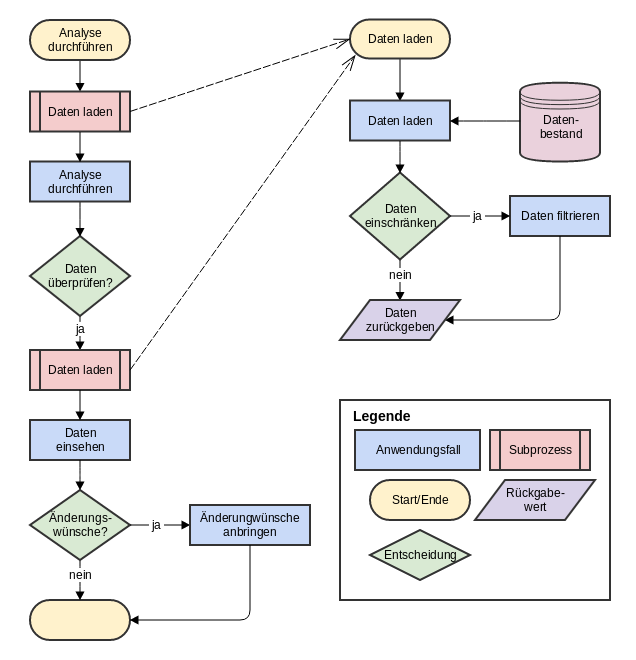
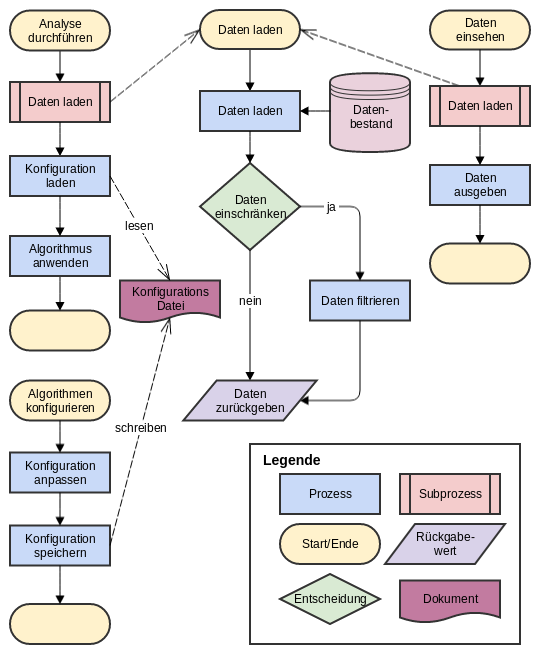
todos

diff --git a/doc/content/4-Konzept.tex b/doc/content/4-Konzept.tex
@@ -1,6 +1,6 @@
 \chapter{Konzept}
 \label{sec:konzept}
-Im Konzept wird beschrieben, wie die Problemstellung, welch im \cref{sec:einleitung:ziel} aufgezeigt wurde, gelöst werden kann. Dazu werden zuerst die einzusetzenden Algorithmen evaluiert (siehe \cref{sec:konzept:disziplin-und-algorithmen} \nameref{sec:konzept:disziplin-und-algorithmen}) und aufgezeigt, wie diese angewendet werden (siehe \cref{sec:konzept:anwendungderalgorithmen} \nameref{sec:konzept:anwendungderalgorithmen}). Anschliessend werden die Daten beschrieben und deren Vorbereitung erläutert (siehe \cref{sec:recherche:datenbestand} \nameref{sec:recherche:datenbestand}). \todo{ergänzen 4.4-4.6}
+Im Konzept wird beschrieben, wie die Problemstellung, welch im \cref{sec:einleitung:ziel} aufgezeigt wurde, gelöst werden kann. Dazu werden die einzusetzenden Algorithmen evaluiert und aufgezeigt, wie diese angewendet werden. Anschliessend folgt eine Beschreibung der Daten, welche von den Algorithmen verwenden, sowie deren fünfstufige  Vorbereitung. Im Abschnitt Ablauf werden die zwei Schritte gezeigt, welche bei jeder Analyse durchgeführt werden. Zum Schluss werden noch Testfälle definiert, welche die korrekte Funktionsweise der Analyse sicherstellen.
 
 \section{Selektion der Disziplinen und Algorithmenen}
 \label{sec:konzept:disziplin-und-algorithmen}
@@ -149,7 +149,7 @@ Die Daten liegen im Windows Excel Format vor. Es sind total 133'001 Datensätze 
 
 \subsection{Datenvorbereitung}
 \label{sec:recherche:datenvorbereitung}
-Die Datenvorbereitung wandelt die Daten so um dass sie für das Data Mining möglichst effizient verwendet werden können. Dies umfasst die Bereinigung, Transformation sowie Reduktion von Informationen\footcite{feature_selection_2017-01-04}. Bei ersteren werden Messfehler im Datenbestand behoben, fehlende Felder ergänzt oder Duplikate entfernt. Die Transformation wandelt Werte um damit sie für die Berechnung besser geeignet sind. Zum Beispiel können Wertebereiche in Intervalle aufgeteilt werden. Bei letzteren werden Instanzen der Datengrundlage entfernt, wodurch die Berechnungszeit verkürzt wird, oder Attribute von allen Instanzen entfernt, da deren Entropie zu gering ist. Zum Beispiel ist es unspannend, wenn ein Attribut bei (fast) allen Instanzen gleich ist. 
+Die Datenvorbereitung wandelt die Daten so um dass sie für das Data Mining möglichst effizient verwendet werden können. Dies umfasst die Bereinigung, Transformation sowie Reduktion von Informationen\footcite{feature_selection_2017-01-04}. Bei ersteren werden Messfehler im Datenbestand behoben, fehlende Felder ergänzt oder Duplikate entfernt. Die Transformation wandelt Werte um damit sie für die Berechnung besser geeignet sind. Bei letzteren werden Instanzen der Datengrundlage entfernt, wodurch die Berechnungszeit verkürzt wird, oder Attribute von allen Instanzen entfernt, da deren Entropie zu gering ist. Zum Beispiel ist es unspannend, wenn ein Attribut bei (fast) allen Instanzen gleich ist\footcite{data_mining_concepts_and_techniques}. 
 
 \subsubsection{Boolsche Werte}  
 \label{sec:recherche:datenvorbereitung:boolschewerte}
@@ -160,7 +160,7 @@ In der Datenbasis sind boolsche Werte entweder leer oder "`X"'. Dies wird umgewa
 Die Datenbasis beinhaltet bestätigte und stornierte Buchungen. Der Status wird in der Zeile C BOOKSTA gespeichert und besitzt den Wert "`OK"' wenn der Kunde die Rechnung bezahlt sowie die Reise angetreten ist, sonst beinhaltet das Feld die Buchstaben "`XX"'. Gründe für eine Stornierung gibt es viele. Zum Beispiel wenn er falsch gebucht hat, die Rechnung nicht bezahlte, die Reise nicht angetreten werden konnte, etc. Wenn es eine ernsthafte Buchung war könnte man auch annullierte Instanzen verwenden in der Analyse. Wenn jedoch etwas falsch gebucht wurde könnten diese Buchungen die Analyse verfälschen. Da kein Grund für die Annullierung angegeben ist in der Datenbasis werden alle Instanzen mit "`XX"' entfernt. 
 
 \subsubsection{Datennormierung von numerischen Werten} 
-\label{sec:recherche:datenvorbereitung:normierung} \cref{sec:konzept:anwendungderalgorithmen:distanzmessung} vorgestellte Distanzmessung arbeitet mit der euklidischen Distanz für numerische Werte. Wenn ein Attribut $A_1$ einer Buchung den Wert 1'000 hat und das einer anderen Buchung 300, so ergibt sich eine Distanz von 700. Betrachtet man ein anderes Attribut $A_2$, welches den Wert 1 hat beziehungsweise 0.3, so ist die Distanz 0.7. Dadurch fällt $A_2$ in der gesamten Distanz zwischen den beiden Buchungen überhaupt nicht in Gewicht, da es um einen Faktor 1'000 kleiner ist. Deshalb werden numerische Attribute genormt, damit alle in den gleichen Wertebereich liegen.
+Die im \label{sec:recherche:datenvorbereitung:normierung} \cref{sec:konzept:anwendungderalgorithmen:distanzmessung} vorgestellte Distanzmessung arbeitet mit der euklidischen Distanz für numerische Werte. Wenn ein Attribut $A_1$ einer Buchung den Wert 1'000 hat und das einer anderen Buchung 300, so ergibt sich eine Distanz von 700. Betrachtet man ein anderes Attribut $A_2$, welches den Wert 1 hat beziehungsweise 0.3, so ist die Distanz 0.7. Dadurch fällt $A_2$ in der gesamten Distanz zwischen den beiden Buchungen massiv weniger ins Gewicht, da es um einen Faktor 1'000 kleiner ist. Deshalb werden numerische Attribute genormt, damit alle in den gleichen Wertebereich liegen.
 
 In dieser Arbeit werden vier numerische Attribute verwendet.
 \begin{table}[H] 
@@ -181,16 +181,24 @@ In dieser Arbeit werden vier numerische Attribute verwendet.
 
 Normiert werden die Spalten AC (Sterne Bewertung des Objektes), AD (Anzahl Zimmer) und AE (Anzahl Schlafzimmer). Diese werden in ein Intervall zwischen 0 und 1 überführt.
 
-Der Preis in der Spalte E giltet für die gesamte Buchung. Dieser wird in einen Wochenpreis und pro Person normiert. Wenn eine Buchung CHF 2'000 kostet für 10 Tage für 2 Personen, so ergibt das "`CHF 1'400 / 10 Tage * 7 Tage / 2 Personen = CHF 490"'. Es wird keine Normierung auf einen Wert von 0-1 durchgeführt, da dieser Wert noch diskretiert wird (siehe nächsten Paragraphen).
+Der Preis in der Spalte E giltet für die gesamte Buchung. Dieser wird in einen Wochenpreis und pro Person normiert. Wenn eine Buchung CHF 2'000 kostet für 10 Tage für 2 Personen, so ergibt das "`CHF 1'400 / 10 Tage * 7 Tage / 2 Personen = CHF 490"'. Es wird keine Normierung auf einen Wert von 0-1 durchgeführt, da dieser Wert noch diskretiert wird (siehe \cref{sec:recherche:datenvorbereitung:diskretierung} \nameref{sec:recherche:datenvorbereitung:diskretierung}).
 
 \subsubsection{Datenerweiterung} 
-Die Daten sollen durch weitere Felder ergänzt werden. Denn eine Fragestellung von Interhome ist es, eine Häufigkeitsanalyse in einem Gebiet durchzuführen\todo{cref}. Da im Datenstamm jedoch nur das Land des Objektes vorhanden ist, muss die Region und die Ortschaft erweitert werden. 
+Die Daten müssen für die Beantwortung der Hypothesen (siehe \cref{sec:einleitung:ziel:hypothesen} \nameref{sec:einleitung:ziel:hypothesen}) durch weitere Felder ergänzt werden. 
+
+Folgende Felder werden benötigt, sind jedoch in der Datenbasis nicht vorhanden:
+\begin{itemize}
+\item Region und Ort des Objektes. In der Datenbasis ist nur das Land vorhanden.
+\item Monat und Wochentag in welchem das Objekt gebucht wurde. 
+\end{itemize}
 
 Zusätzlich müssen für die Wetterdaten die genaue Geolocation des Benutzers vorhanden sein. Im Datenstamm ist die Adresse des Kunden gespeichert, mit welcher die Geolocation ermittelt werden kann.
 
 \subsubsection{Diskretierung von Distanzen und des Wochenpreises} 
 \label{sec:recherche:datenvorbereitung:diskretierung}
-Die Zeilen AK (Distanz zum Wasser), AL (Distanz zum Skigebiet), AM (Distanz zum öffentlichen Verkehr), DZ (Distanz zum Zentrum), EA (Distanz bis zum Meer) und EB (Distanz bis zum See) sind numerische Werte, welche die Anzahl an Metern zu einem Punkt angeben. Die Werte dieser Spalten wird in folgenden Wert diskretiert. 
+Die Apriori-Analyse zählt nur exakte Übereinstimmungen. Deshalb werden kontinuierliche Werte in vorgegebene diskrete Teilmengen unterteilt damit sie vom Apriori Algorithmus verwendet werden können. Die Grenzwerte der diskretierungen wurden mit Interhome abgesprochen, da diese bereits intern entsprechend verwendet werden.
+
+Die Zeilen AK (Distanz zum Wasser), AL (Distanz zum Skigebiet), AM (Distanz zum öffentlichen Verkehr), DZ (Distanz zum Zentrum), EA (Distanz bis zum Meer) und EB (Distanz bis zum See) sind numerische Werte, welche die Anzahl an Metern zu einem Punkt angeben. Die Werte dieser Spalten wird in folgende Bereite diskretiert: 
 
 \begin{table}[h] 
 	\caption{Diskretisierungswerte für Distanzattribute}
@@ -225,8 +233,6 @@ Ebenfalls wird der Wochenpreise in nachfolgende Intervalle unterteilt.
 Bei den Distanzen sind kleine Werte spannend, welche angeben dass ein Objekt nahe am Skilift oder bei der Busstation liegt. Deshalb wurde definiert dass die Werte von 0 bis 499 Metern als nahe (engl. Close) markiert werden. Darüber liegende Werte werden ignoriert.
 
 Bei den Preisen hingegen ist es interessant, wenn ein Objekt besonders günstig oder teuer ist. Deshalb wurden zwei Intervalle definiert. Nämlich 0 bis 200 und 401 aufwärts. Alles dazwischen wird nicht weiter behandelt.
-
-Diese Datenreduktion wird vorgenommen, da dadurch die Informationen auch von der Apriori-Analyse verwendet werden kann. Dieser zählt nur exakte Übereinstimmungen. Die Grenzwerte der diskretierungen wurden mit Interhome abgesprochen, da diese bereits intern entsprechend verwendet werden.
 
 %\begin{itemize}
 %%\item Das Datenformat wurde für die einfachere programmatische Handhabung von Windows Excel in das \gls{csv}-Format transferiert.
@@ -277,7 +283,7 @@ In den Tabellen \ref{fig:recherche:datenvorbereitung:3} und \ref{fig:recherche:d
 	\end{tabular}
 \end{table}
 
-Die Diskretisierung wird durchgeführt, damit nach dem Clustering die Häufigkeit der kategorischen Werte mit dem Apriori Algorithmus erhoben werden kann. Dadurch wird das Clustering nachvollziehbar\todo{cref}\footcite{data_mining_concepts_and_techniques}. 
+Die Diskretisierung wird durchgeführt, damit nach dem Clustering die Häufigkeit der kategorischen Werte mit dem Apriori Algorithmus erhoben werden kann. Dadurch wird das Clustering (siehe \cref{sec:konzept:ablauf:analyse} \nameref{sec:konzept:ablauf:analyse}). 
 
 Es gibt verschiedene Diskretisierungsmethoden. Diese Teilen die Werte in gleiche Intervalle auf oder stellen sicher dass in jeder Kategorie die selbe Anzahl an Instanzen vorhanden sind.
 Die verwendeten Werte aus \cref{fig:recherche:datenvorbereitung:1} und \cref{fig:recherche:datenvorbereitung:2} wurde mit Interhome abgesprochen. 
@@ -322,6 +328,9 @@ In Absprache mit Interhome wurde entschieden, dass in einem ersten Schritt jene 
 		\bfseries Zelle & \bfseries Name & \bfseries Datentyp & \bfseries Beschreibung \\ \hline 
 		E & PRICES & integer & Preis \\ \hline 
 		I & NREF & categorical & Nummer des gebuchten Objektes \\ \hline 
+		L & REPAX & integer & Anzahl Passagiere \\ \hline 
+		S & CUCNTRY & categorical & Land des Kunden \\ \hline 
+		U & CUORT & string & Ortschaft des Kunden \\ \hline 
 		AC & QUAL & integer & Sterne Bewertung des Objektes \\ \hline 
 		AD & ROOMS & integer & Anzahl Zimmer \\ \hline 
 		AE & BEDROOMS & integer & Anzahl Schlafzimmer \\ \hline 
@@ -418,7 +427,7 @@ Möchte der Benutzer wissen, welche Attribute in der (vorselektierten) Datenmeng
 	\label{fig:konzept:ablauf:analyse:1}
 \end{figure}
 
-Liefert der Apriori keine zufriedenstellenden Antworten oder ist von vornherein zu erwarten, dass es verschiedene Gruppen von Buchungen gibt, so kann zuerst die Cluster Analysis durchgeführt werden. Die Instanzen werden damit in Clusters/Klassen aufgeteilt, der Benutzer würde jedoch nicht sehen weshalb. Deshalb wird auf jeder Klasse der Apriori-Algorithmus durchgeführt. Da die Instnzen in einer Klasse untereinander möglichst Homogen sein sollen und möglichst unterschiedlich zu anderen Clusters, ist anzunehmen, dass die häufigsten Attribute, welche durch den Apriori-Algorithmus gefunden werden, aussagekräftig die Klassen beschreiben.
+Liefert der Apriori keine zufriedenstellenden Antworten oder ist von vornherein zu erwarten, dass es verschiedene Gruppen von Buchungen gibt, so kann zuerst die Cluster Analysis durchgeführt werden. Die Instanzen werden damit in Clusters/Gruppen aufgeteilt, der Benutzer würde jedoch nicht sehen weshalb. Deshalb wird auf jedem Cluster der Apriori-Algorithmus durchgeführt. Da die Instanzen in einer Gruppe untereinander möglichst Homogen sein sollen und möglichst unterschiedlich zu anderen Clusters, ist anzunehmen, dass die häufigsten Attribute, welche durch den Apriori-Algorithmus gefunden werden, aussagekräftig die Klassen beschreiben.
 
 \section{Mockups des Programmes}
 \label{sec:konzept:mockups}

diff --git a/doc/content/5-Umsetzung.tex b/doc/content/5-Umsetzung.tex
@@ -293,12 +293,12 @@ Das Ziel war es, gemäss dem \gls{srp} eine starke Kohäsion und eine lose Koppl
 
 \begin{itemize}
 	\item Controllers: Nehmen die Anfragen eines Benutzers entgegen und verarbeiten diese. Dazu verwenden sie Klassen aus dem Business welches ein Datenmodel zurückliefert. Dieses Model werden anschliessend vom Controller an die View übergeben welche die Ausgabe für den Browser generiert (siehe \cref{sec:proofofconcept:architektur:mvc} \nameref{sec:proofofconcept:architektur:mvc}).
-	\item Services: Führen die verschiedenen Analysen durch. Sie sind so ausgelegt dass sie als eigenständiger Prozess im Hintergrund ausgeführt werden können.\todo{cref}
-	\item Business: Beinhaltet die Geschäftlogik, was in dieser Arbeit die Algorithmen umfasst, sowie alles was mit den Models interagiert. Demnach die Algorithmen selber (im Unterpacket "`Algorithms"'), die Distanzmessung (Klasse DistanceMeasurement), den Datenzugriff (Klasse BookingDataIterator), etc.\todo{cref}
-	\item Models: Klassen für die Datenhaltung welche möglichst wenig Logik beinhalten.\todo{cref}
+	\item Services: Führen die verschiedenen Analysen durch. Sie sind so ausgelegt dass sie als eigenständiger Prozess im Hintergrund ausgeführt werden können (siehe \cref{sec:proofofconcept:architektur:services} \nameref{sec:proofofconcept:architektur:services}).
+	\item Business: Beinhaltet die Geschäftlogik, was alles umfasst was mit den Models interagiert. Demnach die Algorithmen selber (im Unterpacket "`Algorithms"'), die Distanzmessung (Klasse DistanceMeasurement), den Datenzugriff (Klasse BookingDataIterator), etc. (siehe \cref{sec:proofofconcept:klassenstruktur:algorithmen} \nameref{sec:proofofconcept:klassenstruktur:algorithmen})
+	\item Models: Klassen für die Datenhaltung welche möglichst wenig Logik beinhalten (siehe \cref{sec:proofofconcept:klassenstruktur:models} \nameref{sec:proofofconcept:klassenstruktur:models}).
 	\item Utilities: Beinhalten Logik die nichts mit den Algorithmen zu tun hat und keine Models verwendet. Diese Klassen können für sich selber in einem anderen Projekt wiederverwendet werden.
 	\item Interfaces: Alle verwendeten Interfaces.
-	\item Tests: UnitTests\todo{cref}
+	\item Tests: UnitTests (siehe \cref{sec:proofofconcept:unittests} \nameref{sec:proofofconcept:unittests}).
 \end{itemize}
 
 \subsection{Klassenstruktur}
@@ -390,11 +390,11 @@ Die erste Abbildung \cref{fig:proofofconcept:klassenstruktur:1} zeigt die Contro
 	\end{itemize}
 	\item BookingDataIterator: Diese Klasse implementiert das Iterator-\gls{pattern}. Sie ermöglicht es Buchung für Buchung eine Datenquelle zu durchlaufen. Intern wird ein "`DataIterator"' verwendet um auf die Quelle der Daten zuzugreifen. Dieser liefert ein unstrukturiertes Array zurück, welches der "`BookingDataIterator"' in eine Buchung umwandelt.
 		\begin{itemize}
-			\item Iterator \& DataIterator: Von \gls{php} wird für die Implementierung des Iterator-\gls{pattern} ein Iterator Interface zur Verfügung gestellt. Das "`DataIterator"' Interface erweitert jenes von \gls{php} um eine Methode "`skip"', mit welcher eine Anzahl an Zeilen in der Datenquelle übersprungen werden kann (wird vom "`ExploreController"' verwendet), sowie eine Funktion "`count"', welche die gesamte Anzahl an Resultaten zurück gibt. Es gibt 4 Iteratoren, welche das "`DataIterator"' Interface implementieren.\todo{cref cache}
+			\item Iterator \& DataIterator: Von \gls{php} wird für die Implementierung des Iterator-\gls{pattern} ein Iterator Interface zur Verfügung gestellt. Das "`DataIterator"' Interface erweitert jenes von \gls{php} um eine Methode "`skip"', mit welcher eine Anzahl an Zeilen in der Datenquelle übersprungen werden kann (wird vom "`ExploreController"' verwendet), sowie eine Funktion "`count"', welche die gesamte Anzahl an Resultaten zurück gibt. Es gibt 4 Iteratoren, welche das "`DataIterator"' Interface implementieren. Die Auswahl des geeigneten Iterators wird im \cref{sec:proofofconcept:performance} \nameref{sec:proofofconcept:performance} erläutert.
 				\begin{itemize}
 					\item LoadRedisDataIterator \& Redis: Der "`LoadRedisDataIterator"' lädt die Daten aus einer Redis InMemory Datenbank. Verwendet wird dazu die "`Redis"' Klasse aus der \gls{pecl} (siehe \cref{sec:proofofconcept:externebibliotheken:redis} \nameref{sec:proofofconcept:externebibliotheken:redis} für Details zu Redis).
-					\item LoadIncrementalCSVDataIterator: Lädt die Daten aus einer \gls{csv}-Datei. Jede Zeile wird einzeln aus dem File gelesen.\todo{cref performance}
-					\item LoadAllCSVDataIterator: Lädt die Daten aus einer \gls{csv}-Datei. Zu Beginn werden alle Zeilen ins Memory des Programmes geladen, aus welchem Zeile für Zeile zurückgegeben wird.\todo{cref performance}
+					\item LoadIncrementalCSVDataIterator: Lädt die Daten aus einer \gls{csv}-Datei. Jede Zeile wird einzeln aus dem File gelesen.
+					\item LoadAllCSVDataIterator: Lädt die Daten aus einer \gls{csv}-Datei. Zu Beginn werden alle Zeilen ins Memory des Programmes geladen, aus welchem Zeile für Zeile zurückgegeben wird.
 					\item LoadClusterDataIterator: Der Klasse muss ein Cluster übergeben werden, über welchen iteriert wird. Verwendet wird der "`LoadClusterDataIterator"' für die Apriori-Analyse nachdem ein Clustering durchgeführt wurde.
 				\end{itemize}
 			\item DataTypeClusterer: Er übernimmt ein Array an Feldern mit untypisierten Daten aus einer Datenquelle oder den Filtern, typisiert diese und gruppiert sie. Beispiel an Daten die an den "`DataTypeClusterer"' übergeben werden:
@@ -541,6 +541,7 @@ Auf ein Sequenzdiagramm für den DBSCAN-Algorithmus wird hier verzichtet, denn d
 
 
 \section{Performance}
+\label{sec:proofofconcept:performance}
 Da die Geschwindigkeit kritisch ist wenn man mit einer grossen Datenmenge arbeitet, wurde ein Caching eingesetzt sowie mehrere Varianten für das Laden der Daten evaluiert. Diese Themen werden nachfolgend beschrieben.
 
 \subsection{Datenzugriff}
@@ -627,7 +628,7 @@ In der Arbeit werden alle Komponenten über Dependency Injection in Klassen hine
 \begin{itemize}
 	\item LoadAllCsvDataIterator: Lädt alle Buchungsdaten aus einem File ins Memory und iteriert dann über die einzelnen Instanzen.
 	\item LoadIncrementalCsvDataIterator: Lädt eine Instanz nach der anderen aus dem File.
-	\item LoadRedisDataIterator: Lädt eine Instanz nach der anderen aus einer Redis Datenbank (In Memory Datenban)\todo{cref}
+	\item LoadRedisDataIterator: Lädt eine Instanz nach der anderen aus einer Redis Datenbank (In Memory Datenban) (siehe \cref{sec:proofofconcept:externebibliotheken:redis} \nameref{sec:proofofconcept:externebibliotheken:redis}).
 \end{itemize}
 
 Es gibt demnach 3 verschiedene Möglichkeiten, wie auf die Daten zugegriffen werden kann. Mittels Dependency Injection kann nun von aussen bestimmt werden, wie der "`BookingDataIterator"' auf die Daten zugreift.
@@ -648,8 +649,6 @@ $\textdollar$apriori->run();
 \end{lstlisting}
 
 Zuerst wird ein "`ContainerBuilder"' erstellt. Auf diesem wird definiert, dass für das "`DataIterator"' Interface die Klasse "`LoadIncrementalCsvDataIterator"' verwendet werden soll. Danach wird auf Zeile 7 ein "`Container"' erstellt und anschliessend eine Instanz der Klasse "`AprioriAlgorithm"' angefordert. Der Container analysiert die Klasse und sieht dass ein "`DataIterator"' erwartet wird und reicht deshalb ein "`LoadIncrementalCsvDataIterator"' in den "`AprioriAlgorithm"' rein. Somit kann auf oberster Ebene gesteuert werden, welche Klassen wo übergeben werden.
-
-Als erfreulicher Nebeneffekt erleichtert dies die Entwicklung von UnitTests massiv (\todo{cref}).
 
 \subsection{Frontend mit Twitter Bootstrap}
 \label{sec:proofofconcept:externebibliotheken:bootstrap}
@@ -842,7 +841,7 @@ Nichts desto trotz wurden Durchläufe der Clustering Algorithmen ausgeführt. Di
 \begin{figure}[H]
 	\RawFloats
 	\centering
-	\includegraphics[width=1\textwidth]{images/expected-data-distribution}
+	\includegraphics[width=0.6\textwidth]{images/expected-data-distribution}
 	\caption{Vermutete Verteilung der Buchungen in der Datenbasis}
 	\label{fig:proofofconcept:fazit:2}
 \end{figure}

diff --git a/doc/content/3-AnforderungenundAnalyse.tex b/doc/content/3-AnforderungenundAnalyse.tex
@@ -3,12 +3,9 @@
 
 \chapter{Anforderungsanalyse}
 \label{sec:anforderungsanalyse}
-\todo{intro}
+Dieses Kapitel stellt die Stakeholders der Arbeit vor und zeigt deren Interaktionen mit dem Programm anhand der Anwendungsfälle auf. Schlussendlich werden daraus die funktionalen und nicht funktionalen Anforderungen abgeleitet.
 
-\section{Anforderungsanalyse des Programmes}
-\todo{intro}
-
-\subsection{Stakeholders}
+\section{Stakeholders}
 \label{sec:anforderungsanalyse:stakeholders}
 In der \cref{fig:anfoderungsanalyse:stakeholders} sind die Stakeholders des Projekt abgebildet.
 \begin{table}[h] 
@@ -28,7 +25,7 @@ In der \cref{fig:anfoderungsanalyse:stakeholders} sind die Stakeholders des Proj
 	\end{tabular}
 \end{table} 
 
-\subsection{Anwendungsfälle}
+\section{Anwendungsfälle}
 \label{sec:anforderungsanalyse:anwendungsfaelle}
 In der \cref{fig:anfoderungsanalyse:anwendungsfaelle:1} werden die Anwendungsfälle des Programmes dargestellt. Die Aktoren sind von der \cref{fig:anfoderungsanalyse:stakeholders} übernommen worden. Nachfolgend werden die einzelnen Anwendungsfälle beschrieben.
 \begin{figure}[H]
@@ -49,26 +46,33 @@ In der \cref{fig:anfoderungsanalyse:anwendungsfaelle:1} werden die Anwendungsfä
 
 
 
-\subsection{Ablauf}
+\section{Ablauf}
 \label{sec:anforderungsanalyse:ablauf}
-In diesem Abschnitt wird der Ablauf von der Dateneinschränkung bis zum anbringen von Änderungswünschen erklärt.
+%In diesem Abschnitt wird der Ablauf von der Dateneinschränkung bis zum anbringen von Änderungswünschen erklärt.
+%
+%Zuerst kann der Benutzer die Daten einschränken. Der gesamte oder gefilterte Datenbestand wird anschliessend von einem Algorithmus analysiert. Daraufhin kann der Benutzer die Resultate überprüfen und wenn Fehler aufgedeckt werden diese an den Entwickler weiterleiten.
+%Visualisiert wird der Ablauf in \cref{fig:anfoderungsanalyse:ablauf:1}.
+In \cref{fig:anfoderungsanalyse:ablauf:1} sind die Abläufe der Anwendungsfälle in einem Flowchart visualisiert. 
 
-Zuerst kann der Benutzer die Daten einschränken. Der gesamte oder gefilterte Datenbestand wird anschliessend von einem Algorithmus analysiert. Daraufhin kann der Benutzer die Resultate überprüfen und wenn Fehler aufgedeckt werden diese an den Entwickler weiterleiten.
-Visualisiert wird der Ablauf in \cref{fig:anfoderungsanalyse:ablauf:1}.
+Der Hauptfall ist "`Analyse durchführen"' welcher als erstes "`Daten laden"' aufruft. Dort werden alle Einträge in der Datenbasis geladen, wenn vom Benutzer gewünscht gefiltert und zurückgegeben. Zurück bei der Analyse werden anschliessend die Konfigurationen geladen und schlussendlich der Algorithmus angewendet.
+
+Der Anwendungsfall "`Daten einsehen"' lädt die Daten auf die selbe weise wie "`Analyse durchführen"'. Anschliessend werden die Daten ausgegeben sodass der Benutzer sie einsehen kann.
+
+Der letzte Anwendungsfall ist die Konfiguration der Algorithmen. Dazu werden die einstellbaren Werte dem Benutzer ausgegeben und die Änderungen anschliessend in eine Konfigurationsdatei geschrieben, damit sie bei der nächsten Analyse verwendet werden können.
 
 \begin{figure}[H]
 	\RawFloats
 	\centering
-	\includegraphics[width=0.8\textwidth]{images/flowchart}
+	\includegraphics[width=0.9\textwidth]{images/flowchart}
 	\caption{Ablauf}
 	\label{fig:anfoderungsanalyse:ablauf:1}
 \end{figure}
 
-\subsection{Funktionale Anforderungen}
+\section{Funktionale Anforderungen}
 \label{sec:anforderungsanalyse:funktionaleanforderung}
-Nachfolgend werden die funktionale Anforderungen an das Programm gestellt.
+Nachfolgend werden die funktionale Anforderungen an das Programm aufgeführt. Abgeleitet wurden diese aus den Anwendungsfällen, dem Ablauf und den Hypothesen.
 
-\todo{FA1: Welche Felder? Aus Hypothese}
+%\todo{FA1: Welche Felder? Aus Hypothese}
 \begin{table}[H] 
 	\caption{FA1: Häufigkeitsanalyse der Attribute}
 	\centering
@@ -82,7 +86,7 @@ Nachfolgend werden die funktionale Anforderungen an das Programm gestellt.
 		Beschreibung & Das Programm muss für die Gewinnung neues Wissens aus der bisherigen Buchungen von Interhome gestaltet werden. Dazu sollen Algorithmen eingesetzt werden welche folgende beispielhaften Fragestellungen beantworten können:
 		\begin{enumerate}
 		\item Welche Attribute werden im Winter wenn es schneit in der Schweiz gebucht?
-		\item Welche Destination wird am meisten gebucht von Kunden im Tessin?
+		\item Welche Destination wird von Kunden im Tessin am meisten gebucht?
 		\end{enumerate}
 		
 		Als Antwort sollte der Algorithmus eine Liste von Attributen zurückliefern. Auf die obigen Beispiele könnte dies folgendes sein: 
@@ -207,7 +211,7 @@ Nachfolgend werden die funktionale Anforderungen an das Programm gestellt.
 \end{table}
 
 
-\subsection{Nicht funktionale Anforderungen}
+\section{Nicht funktionale Anforderungen}
 \label{sec:anforderungsanalyse:nichtfunktionaleanforderung}
 Nachfolgend sind die nicht funktionale Anforderungen an das Programm spezifiziert. Diese gehen nicht auf die Funktionalität der Applikation ein, sondern auf die Komplexität, Performanz, etc.
 

diff --git a/doc/content/2-Recherche.tex b/doc/content/2-Recherche.tex
@@ -353,7 +353,8 @@ Zu Beginn werden alle Punkte als "`unvisited"' makriert. Anschliessend wird ein 
 Abgebrochen wird wenn alle Punkte als "`visited"' markiert sind.
 
 \section{Wissenschaftliche Arbeiten}
-\todo{}
+Es wurde im Netz nach bestehenden wissenschaftlichen Arbeiten gesucht, die sich mit der Thematik dieser Arbeit bereits auseinandergesetzt hat. Der Apriori Algorithmus wird üblicherweise in Verbindung mit dem Association rule learning verwendet und nur selten für die reine Häufigkeitsanalyse eingesetzt. Deshalb wurden nur wenige Berichte gefunden welche sich rein auf den Apriori beziehen. 
+Zum Beispiel wird im Bericht "`An Apriori-based Algorithm for Mining Frequent Substructures from Graph Data"'\footcite{agm} der Apriori Algorithmus auf einer graphischen Repräsentation von chemischen Verbindungen ausgeführt. Eingesetzt wird er zur Auffindung von häufig auftretenden induzierten Subgraphen. Gemäss dem Fazit ist der Algorithmus gut geeignet um effizient Häufigkeiten aufzudecken. Obwohl das Einsatzgebiet und die Datenstrukturen des Berichtes sehr unterschiedlich sind zu dieser Arbeit sollte der Apriori Algorithmus trotzdem anwendbar sein und effiziente zu einem Resultat führen.
 
 \section{Programmevaluation}
 \label{sec:recherche:programmevaluation}
